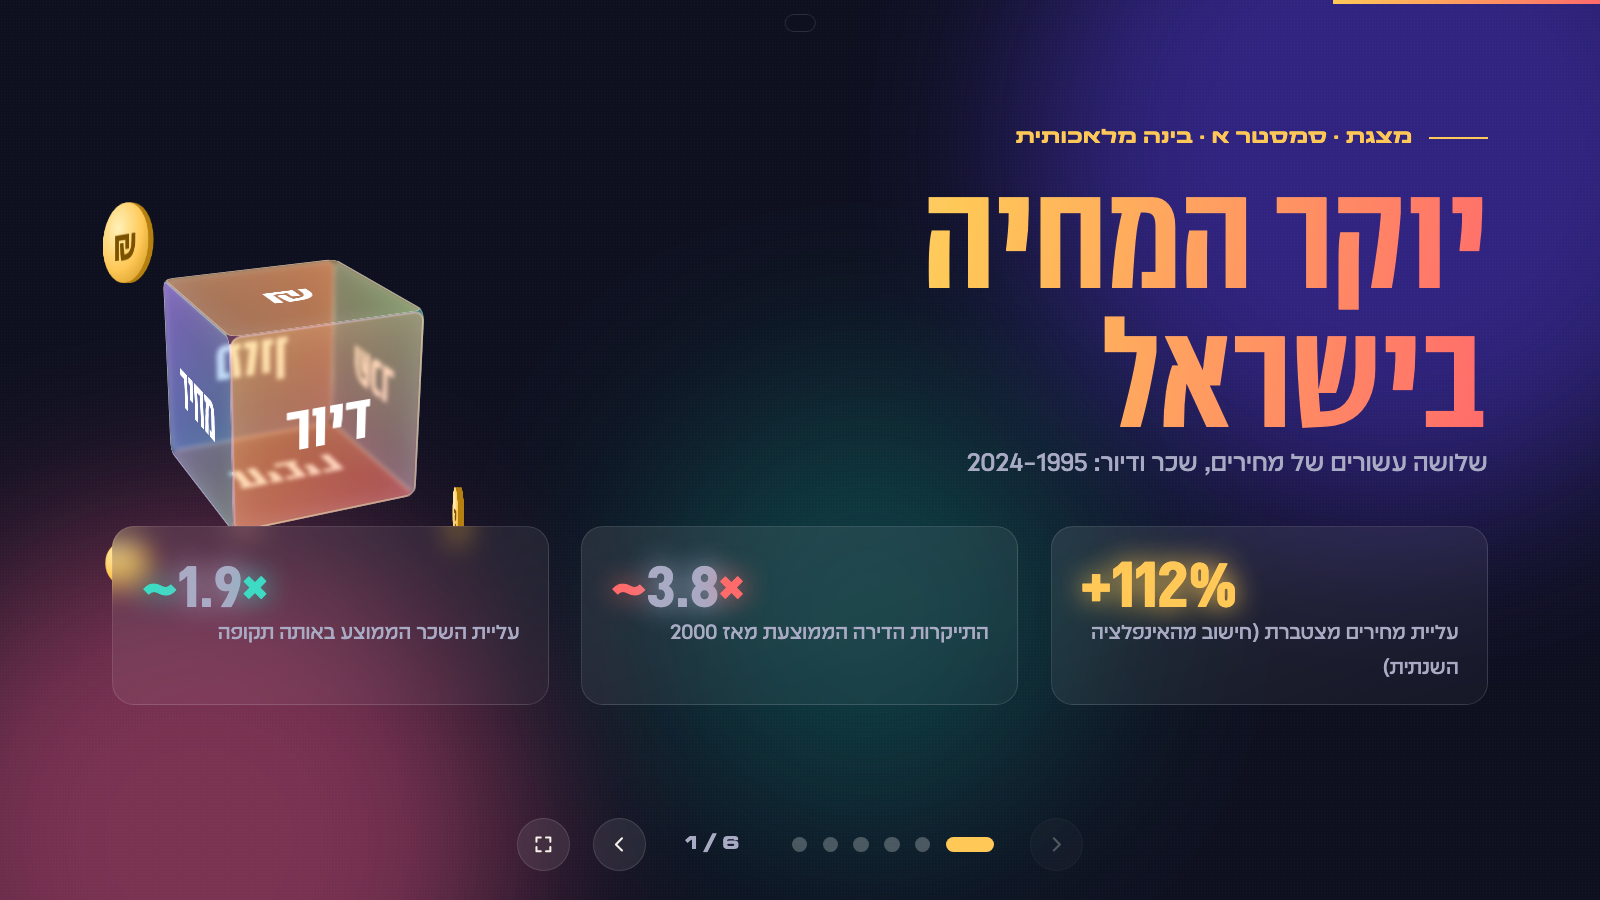
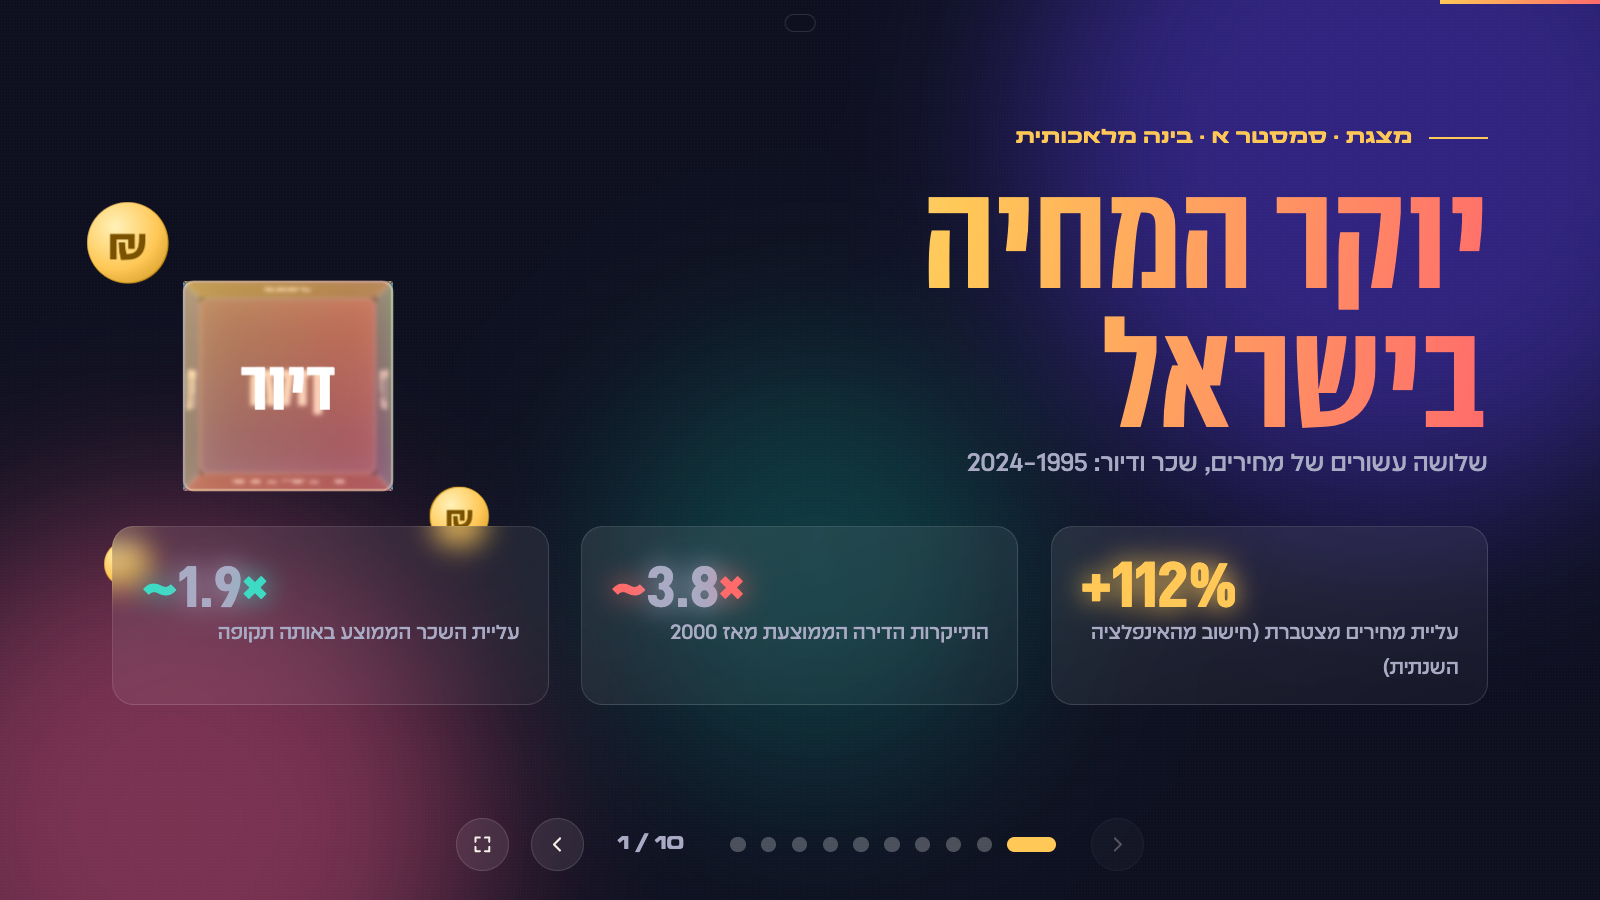
Update README, PRD, prompts log and screenshots for the 10-slide deck

diff --git a/README.md b/README.md
@@ -1,17 +1,21 @@
 # Cost of Living in Israel, 1995–2024
 
-An interactive Hebrew (RTL) presentation: thirty years of prices, wages and housing costs in Israel, in a single HTML file with a Three.js 3D scene, JavaScript navigation, and a slide produced by Python.
+An interactive Hebrew (RTL) presentation: thirty years of prices, wages and housing costs in Israel, in a single HTML file with a Three.js 3D scene, JavaScript navigation, and slides produced by Python.
 
 **Open it:** download the repository and double-click `index.html` (no server, no network needed).
 
 | | |
 |---|---|
-| ![Title slide](docs/screenshots/slide-01.png) | ![Inflation](docs/screenshots/slide-02.png) |
+| ![Title and three headline numbers](docs/screenshots/slide-01.png) | ![Annual inflation, 3D bars](docs/screenshots/slide-02.png) |
 | 1 · Title and three headline numbers | 2 · Annual inflation, 3D bars |
-| ![Housing](docs/screenshots/slide-03.png) | ![Household spending](docs/screenshots/slide-04.png) |
-| 3 · An apartment costs 86 → 173 average salaries | 4 · Where the monthly budget goes |
-| ![Python analysis](docs/screenshots/slide-05.png) | ![Summary](docs/screenshots/slide-06.png) |
-| 5 · **Python analysis**, index 2000 = 100 | 6 · Summary |
+| ![Apartment price in average salaries: 86 → 173](docs/screenshots/slide-03.png) | ![Rents by city (CBS via Globes)](docs/screenshots/slide-04.png) |
+| 3 · Apartment price in average salaries: 86 → 173 | 4 · Rents by city (CBS via Globes) |
+| ![Where the monthly budget goes (CBS 2023)](docs/screenshots/slide-05.png) | ![Top vs bottom income decile (CBS 2023)](docs/screenshots/slide-06.png) |
+| 5 · Where the monthly budget goes (CBS 2023) | 6 · Top vs bottom income decile (CBS 2023) |
+| ![**Python analysis**, index 2000 = 100](docs/screenshots/slide-07.png) | ![Israel vs OECD, wages vs prices](docs/screenshots/slide-08.png) |
+| 7 · **Python analysis**, index 2000 = 100 | 8 · Israel vs OECD, wages vs prices |
+| ![Possible levers (for discussion)](docs/screenshots/slide-09.png) | ![Summary](docs/screenshots/slide-10.png) |
+| 9 · Possible levers (for discussion) | 10 · Summary |
 
 ## The finding
 Between 2000 and 2024 consumer prices rose about 1.5×, the average wage 1.9× and the average apartment 3.8×. In real terms wages gained roughly 26% while apartment prices gained about 154%, so the number of average salaries needed to buy an apartment doubled (86 → 173).
@@ -19,7 +23,7 @@ Between 2000 and 2024 consumer prices rose about 1.5×, the average wage 1.9× a
 ## How the requirements are met
 - **JavaScript:** previous/next buttons, progress dots, keyboard (← forward in RTL), `#3` deep links, `?auto` auto-play.
 - **Three.js (3D):** a "data city" of 30 columns that morphs between datasets as slides change; the title slide also has a CSS-3D cube with coins.
-- **Python:** `src/analysis.py` reads `data/data.json`, computes the indices and draws `docs/charts/index_2000.png`; `src/build.py` embeds the chart and the computed numbers into slide 5.
+- **Python:** `src/analysis.py` reads `data/data.json`, computes the indices and draws `docs/charts/index_2000.png`; `src/build.py` generates slides 4, 6, 7, 8 and 9 from `data/data.json` and the analysis output (bar rows, the indices chart, the computed numbers). Slides 1–3, 5 and 10 are the original hand-written deck, with the spending data updated.
 - **Single file:** Three.js and the fonts are embedded in `index.html`. The same fonts are also stored in `fonts/` (see `fonts/README.md` for licensing notes).
 
 ## Regenerate the Python slide
@@ -46,10 +50,12 @@ Work was led through Claude Code in the terminal: requirements first (PRD), then
 What I corrected along the way: a BiDi bug that rendered `+26.1%` as `%26.1+`, a stale slide counter after adding a slide, and screenshots captured mid-transition.
 
 Known limitations:
-- The numbers are rounded, illustrative figures based on CBS and Bank of Israel publications; they were **not** re-verified against the official series. Verify before citing.
+- **Official, read in full:** the CBS Household Expenditure Survey 2023 (published 2026-01-01): spending shares (slide 5) and income-decile figures (slide 6). CBS notes that 2023 income measurement changed, so these are not comparable with earlier years.
+- **Taken from press reports of CBS / OECD / Ministry of Economy data** (Globes, Times of Israel): rents by city (Q3 2024), housing-services index, OECD price-level and food comparisons (the food figure is from 2017 data), 2024 wage growth. The article dates and sources are on each slide.
+- **Rounded, illustrative and not re-verified:** the annual inflation series 1995–2024 and the apartment price / average wage points used in slides 2, 3 and 7. Verify against cbs.gov.il before citing.
 - The Python chart uses English labels to avoid RTL shaping issues in matplotlib.
 - Only the Assistant font is clearly open-licensed; check the others before reuse.
-- The original 4-chart deck was generated in an earlier session whose prompts were not saved.
+- Slides 1–3, 5 and 10 were generated in an earlier session whose prompts were not saved.
 
 ## Authors
 Yaakov Geppert and partner (details are in the submission form).

diff --git a/PRD.md b/PRD.md
@@ -11,9 +11,9 @@ Course instructor and classmates (AI course, semester A). Non-economists: the me
 |---|---|---|
 | R1 | Topic of personal interest | Cost of living / housing in Israel |
 | R2 | JavaScript: buttons and interaction | Prev/next buttons, dots, keyboard (RTL: ← forward), `#n` deep links, auto-play with `?auto` |
-| R3 | Python integrated into the presentation | `src/analysis.py` computes indices and draws a chart; `src/build.py` injects the results as slide 5 |
+| R3 | Python integrated into the presentation | `src/analysis.py` computes indices and draws a chart; `src/build.py` generates slides 4, 6, 7, 8 and 9 from `data/data.json` |
 | R4 | 3D element (Three.js) | 3D "data city" of 30 columns that morphs per slide, plus a CSS-3D cube with coins on the title slide |
-| R5 | Roughly 10 slides, not 30 | 6 slides |
+| R5 | Roughly 10 slides, not 30 | 10 slides |
 | R6 | Single self-contained HTML file | `index.html` (Three.js and fonts are embedded) |
 | R7 | GitHub: README with screenshots, PRD, prompts, several pushes | This repository |
 
@@ -21,20 +21,24 @@ Course instructor and classmates (AI course, semester A). Non-economists: the me
 1. Title and three headline numbers (cumulative prices, apartment price multiple, wage multiple)
 2. Inflation 1995–2024 (3D bar chart)
 3. Apartment price in "average salaries" (86 → 173)
-4. Where household money goes (3D donut)
-5. Python analysis: CPI vs wages vs apartment prices, 2000 = 100
-6. Summary and the closing question
+4. Rents by city, rent index vs inflation *(Python-generated)*
+5. Where household money goes, CBS Household Expenditure Survey 2023 (3D donut)
+6. Top vs bottom income decile: ownership, renting, rent paid *(Python-generated)*
+7. Python analysis: CPI vs wages vs apartment prices, 2000 = 100
+8. Israel vs OECD and wages vs prices *(Python-generated)*
+9. Possible levers, for discussion *(Python-generated)*
+10. Summary and the closing question
 
 ## 5. Non-functional
 - RTL and BiDi: numbers and years wrapped in `<bdi>`.
 - Works in current Chrome/Safari; no console errors.
 - Readable at 1600×900; navigation works with keyboard and mouse.
-- Data are rounded illustrative figures and must be verified against CBS (lms.gov.il) and Bank of Israel before anything beyond the course.
+- Data provenance is stated on every slide: CBS 2023 survey figures are official; rents, OECD and wage-growth figures come from press reports of official data; the inflation series and apartment/wage points are rounded and unverified.
 
 ## 6. Out of scope
 Live data fetching, user accounts, mobile-specific layout, translation to other languages.
 
 ## 7. Acceptance checks
-- Open `index.html`: 6 slides, buttons and arrow keys navigate, no console errors.
-- `python src/analysis.py && python src/build.py` regenerates slide 5 idempotently.
-- Numbers on slide 5 equal `build/analysis.json`.
+- Open `index.html`: 10 slides, buttons and arrow keys navigate, no console errors.
+- `python src/analysis.py && python src/build.py` regenerates the generated slides idempotently (run twice: no diff).
+- Numbers on slide 7 equal `build/analysis.json`.

diff --git a/prompts/03-data-and-new-slides.md b/prompts/03-data-and-new-slides.md
@@ -1,0 +1,20 @@
+# 03 — Up-to-date data and four more slides
+
+**Prompt 6 (Hebrew):** "כתוב שצריך 10 שקפים בערך לא?" (asked whether 6 slides meet the assignment)
+→ LLM re-read the homework summary: about 10 slides is the guidance; 6 is on the low side. Proposed four additional slides (rent, deciles, international comparison, levers).
+
+**Prompt 7 (Hebrew):** "אני מאשר, תמשוך את הנתונים העדכניים מאיפה שצריך. קודם נעבוד על המצגת אחר כך נעלה לגיטאהב"
+→ Data search and reading:
+- CBS Household Expenditure Survey 2023 press release (PDF, read in full): spending shares, deciles, housing tenure.
+- Globes (rents Q3 2024, 2024 wage growth), Times of Israel (OECD 2022 price level), Globes (food vs OECD, 2017 data).
+→ Result: `data/data.json` extended with sourced figures; the old household-spending split (26/16/14/10/5/29, unsourced) replaced by the CBS 2023 split.
+→ `src/build.py` rewritten to generate slides 4, 6, 7, 8, 9; Three.js slide-to-dataset mapping fixed with `data-set` attributes (it was keyed to the slide index and would have broken with 10 slides).
+
+**Verification**
+- Rebuilt twice (idempotent), 10 `<section>`s, no console errors.
+- Fixed wording that contradicted the data ("more than a third" for 55.4%, now "more than half").
+- Screenshots: the 3D scene renders slowly in headless Chrome, so shots were taken from a temporary copy with animations disabled (the deck itself is unchanged).
+
+**Not verified**
+- Rent, OECD, food and wage figures come from press reports, not the primary releases; the food-vs-OECD figure is from 2017.
+- A 2025 annual inflation figure (2.6%, Dec-on-Dec) is in the footnote of slide 2 only, from press reports.

diff --git a/prompts/README.md b/prompts/README.md
@@ -6,5 +6,6 @@ Prompts are listed in the order they were given to the LLM (Claude Code), each w
 |---|---|
 | [01-assignment-analysis.md](01-assignment-analysis.md) | Reading the lecture summary and the assignment, planning |
 | [02-python-and-repo.md](02-python-and-repo.md) | Adding Python, extracting fonts, building the repository |
+| [03-data-and-new-slides.md](03-data-and-new-slides.md) | Official data, four more slides (10 total) |
 
-Note: the original 5-slide deck (slides 1–4 and 6, the Three.js scene) was generated earlier, in a separate session, and its prompts were not saved. Only the prompts of the sessions below are documented; nothing was reconstructed from memory.
+Note: the original 5-slide deck (the title, inflation, housing, spending and summary slides, and the Three.js scene) was generated earlier, in a separate session, and its prompts were not saved. Only the prompts of the sessions below are documented; nothing was reconstructed from memory.
